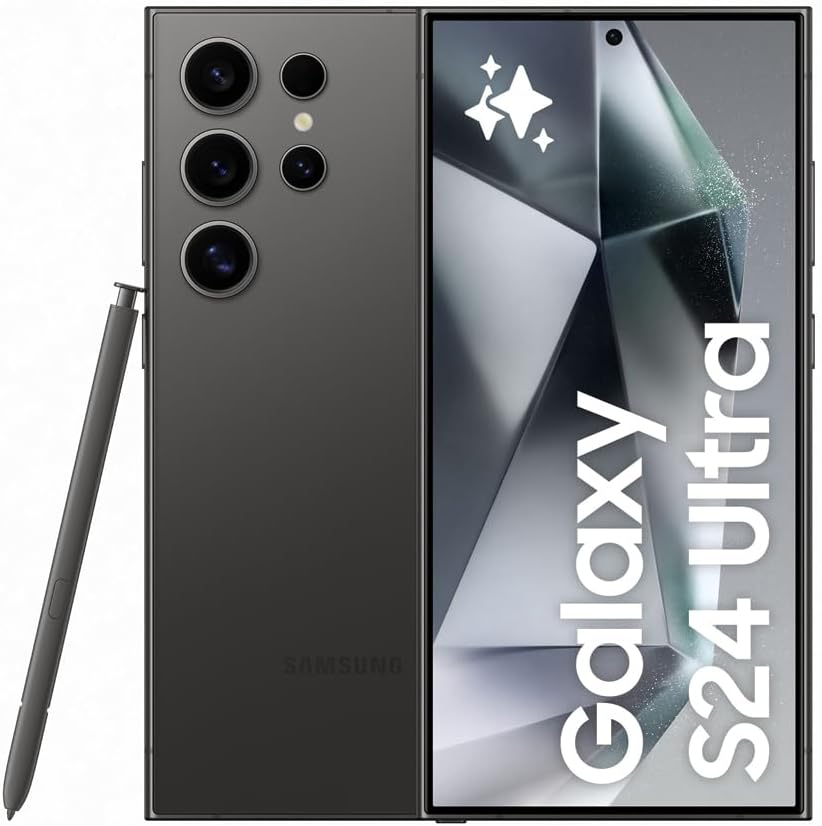
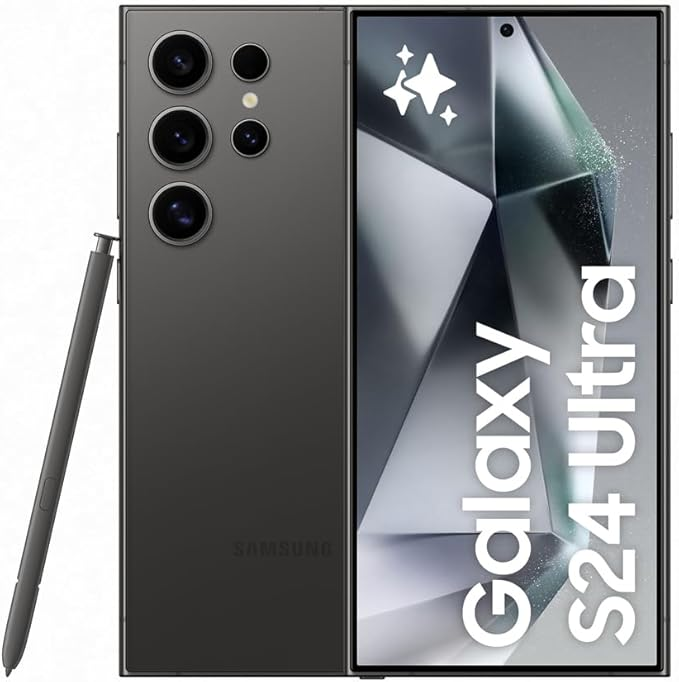
Fix: Alle lokalen Bildpfade bereinigt (._AC_SL... entfernt) + Samsung S24 Ultra Bild lokal

diff --git a/pages/sony-wh-1000xm5.html b/pages/sony-wh-1000xm5.html
@@ -13,7 +13,7 @@
   <meta property="og:description" content="Sony WH-1000XM5 im Test: Noise Cancelling, wie es sein soll">
   <meta property="og:url" content="https://mmofinds.de/pages/sony-wh-1000xm5.html">
   <meta property="og:site_name" content="MMOFinds">
-  <meta property="og:image" content="/assets/images/51SKmu2G9FL.jpg._AC_SL1500_.jpg">
+  <meta property="og:image" content="/assets/images/51SKmu2G9FL.jpg">
   <meta property="og:image:width" content="1200">
   <meta property="og:image:height" content="630">
   
@@ -577,7 +577,7 @@ body {
     
     <!-- Hero -->
     <div class="review-hero">
-      <img src="/assets/images/51SKmu2G9FL.jpg._AC_SL1500_.jpg" alt="Sony WH-1000XM5" class="review-hero-image" width="1200" height="600">
+      <img src="/assets/images/51SKmu2G9FL.jpg" alt="Sony WH-1000XM5" class="review-hero-image" width="1200" height="600">
       <div class="review-hero-content">
         <span class="review-category">Kopfhörer</span>
         <h1 class="review-headline">Der stille König der Kopfhörer</h1>
@@ -601,7 +601,7 @@ body {
     <section class="product-video-section">
       <h2 class="product-video-title">🎬 Sony WH-1000XM5 — Produkt-Video</h2>
       <div class="product-video-container">
-        <video controls preload="metadata" poster="/assets/images/51SKmu2G9FL.jpg._AC_SL1500_.jpg">
+        <video controls preload="metadata" poster="/assets/images/51SKmu2G9FL.jpg">
           <source src="/videos/sony_wh1000xm5_review.mp4" type="video/mp4">
           Ihr Browser unterstützt kein Video.
         </video>
@@ -698,7 +698,7 @@ body {
       <div class="products-grid">
               <div class="product-card">
         <div class="product-image">
-          <img src="/assets/images/51SKmu2G9FL.jpg._AC_SL1500_.jpg" alt="Sony WH-1000XM5 — Schwarz" width="600" height="600" loading="lazy">
+          <img src="/assets/images/51SKmu2G9FL.jpg" alt="Sony WH-1000XM5 — Schwarz" width="600" height="600" loading="lazy">
         </div>
         <div class="product-body">
           <h3 class="product-name">Sony WH-1000XM5 — Schwarz</h3>
@@ -710,7 +710,7 @@ body {
       </div>
       <div class="product-card">
         <div class="product-image">
-          <img src="/assets/images/61hgACWSwHL.jpg._AC_SL1500_.jpg" alt="Sony WH-1000XM5 — Silber" width="600" height="600" loading="lazy">
+          <img src="/assets/images/61hgACWSwHL.jpg" alt="Sony WH-1000XM5 — Silber" width="600" height="600" loading="lazy">
         </div>
         <div class="product-body">
           <h3 class="product-name">Sony WH-1000XM5 — Silber</h3>

diff --git a/index.html b/index.html
@@ -1161,7 +1161,7 @@ body {
     <a href="/pages/sony-wh-1000xm5.html" class="featured-card" rel="noopener">
       <div class="featured-image">
         <span class="featured-badge">⭐ Top Review</span>
-        <img src="/assets/images/51SKmu2G9FL.jpg._AC_SL1500_.jpg" alt="Sony WH-1000XM5" loading="lazy">
+        <img src="/assets/images/51SKmu2G9FL.jpg" alt="Sony WH-1000XM5" loading="lazy">
       </div>
       <div class="featured-content">
         <span class="featured-category">Kopfhörer</span>
@@ -1204,7 +1204,7 @@ body {
     </a>
     <a href="/pages/apple-airpods-pro-2.html" class="product-card" data-cat="earbuds" rel="noopener">
       <div class="product-card-image">
-        <img src="/assets/images/61SUj2aKoEL.jpg._AC_SL1500_.jpg" alt="Apple AirPods Pro 2" loading="lazy" width="400" height="400">
+        <img src="/assets/images/61SUj2aKoEL.jpg" alt="Apple AirPods Pro 2" loading="lazy" width="400" height="400">
       </div>
       <div class="product-card-body">
         <div class="product-card-category">Earbuds</div>
@@ -1238,7 +1238,7 @@ body {
     </a>
     <a href="/pages/soundcore-boom-2-outdoor.html" class="product-card" data-cat="bluetooth" rel="noopener">
       <div class="product-card-image">
-        <img src="/assets/images/71hacRj5-QL.jpg._AC_SL1500_.jpg" alt="soundcore Boom 2" loading="lazy" width="400" height="400">
+        <img src="/assets/images/71hacRj5-QL.jpg" alt="soundcore Boom 2" loading="lazy" width="400" height="400">
       </div>
       <div class="product-card-body">
         <div class="product-card-category">Bluetooth Lautsprecher</div>
@@ -1272,7 +1272,7 @@ body {
     </a>
     <a href="/pages/samsung-galaxy-watch-7.html" class="product-card" data-cat="smartwatch" rel="noopener">
       <div class="product-card-image">
-        <img src="/assets/images/51ZqhjQmtQL.jpg._AC_SL1500_.jpg" alt="Samsung Galaxy Watch 7" loading="lazy" width="400" height="400">
+        <img src="/assets/images/51ZqhjQmtQL.jpg" alt="Samsung Galaxy Watch 7" loading="lazy" width="400" height="400">
       </div>
       <div class="product-card-body">
         <div class="product-card-category">Smartwatch</div>

diff --git a/pages/apple-airpods-pro-2.html b/pages/apple-airpods-pro-2.html
@@ -13,7 +13,7 @@
   <meta property="og:description" content="AirPods Pro 2 im Test: So funktionieren In-Ears, die du nicht mehr ablegen willst">
   <meta property="og:url" content="https://mmofinds.de/pages/apple-airpods-pro-2.html">
   <meta property="og:site_name" content="MMOFinds">
-  <meta property="og:image" content="/assets/images/61SUj2aKoEL.jpg._AC_SL1500_.jpg">
+  <meta property="og:image" content="/assets/images/61SUj2aKoEL.jpg">
   <meta property="og:image:width" content="1200">
   <meta property="og:image:height" content="630">
   
@@ -539,7 +539,7 @@ body {
     
     <!-- Hero -->
     <div class="review-hero">
-      <img src="/assets/images/61SUj2aKoEL.jpg._AC_SL1500_.jpg" alt="Apple AirPods Pro 2" class="review-hero-image" width="1200" height="600">
+      <img src="/assets/images/61SUj2aKoEL.jpg" alt="Apple AirPods Pro 2" class="review-hero-image" width="1200" height="600">
       <div class="review-hero-content">
         <span class="review-category">Earbuds</span>
         <h1 class="review-headline">Klein. Kraftvoll. Magisch.</h1>
@@ -648,7 +648,7 @@ body {
       <div class="products-grid">
               <div class="product-card">
         <div class="product-image">
-          <img src="/assets/images/61SUj2aKoEL.jpg._AC_SL1500_.jpg" alt="Apple AirPods Pro 2 — Lightning" width="600" height="600" loading="lazy">
+          <img src="/assets/images/61SUj2aKoEL.jpg" alt="Apple AirPods Pro 2 — Lightning" width="600" height="600" loading="lazy">
         </div>
         <div class="product-body">
           <h3 class="product-name">Apple AirPods Pro 2 — Lightning</h3>
@@ -660,7 +660,7 @@ body {
       </div>
       <div class="product-card">
         <div class="product-image">
-          <img src="/assets/images/61f1YfTkTDL.jpg._AC_SL1500_.jpg" alt="Apple AirPods Pro 2 — USB-C" width="600" height="600" loading="lazy">
+          <img src="/assets/images/61f1YfTkTDL.jpg" alt="Apple AirPods Pro 2 — USB-C" width="600" height="600" loading="lazy">
         </div>
         <div class="product-body">
           <h3 class="product-name">Apple AirPods Pro 2 — USB-C</h3>

diff --git a/pages/soundcore-boom-2-outdoor.html b/pages/soundcore-boom-2-outdoor.html
@@ -649,7 +649,7 @@
    601|        
 <div class="product-card">
   <div class="product-image">
-    <img src="/assets/images/61Eaj593GtL.jpg._AC_SL1500_.jpg" alt="JBL Flip 6 Outdoor Speaker" loading="lazy">
+    <img src="/assets/images/61Eaj593GtL.jpg" alt="JBL Flip 6 Outdoor Speaker" loading="lazy">
   </div>
   <div class="product-body">
     <h3 class="product-name">JBL Flip 6</h3>
@@ -659,7 +659,7 @@
 </div>
 <div class="product-card">
   <div class="product-image">
-    <img src="/assets/images/7192Qca-fUL.jpg._AC_SL1500_.jpg" alt="Bose SoundLink Flex Bluetooth Speaker" loading="lazy">
+    <img src="/assets/images/7192Qca-fUL.jpg" alt="Bose SoundLink Flex Bluetooth Speaker" loading="lazy">
   </div>
   <div class="product-body">
     <h3 class="product-name">Bose SoundLink Flex</h3>

diff --git a/products/apple-airpods-pro-2.html b/products/apple-airpods-pro-2.html
@@ -11,7 +11,7 @@
     <meta property="og:description" content="Adaptives Noise-Cancelling, Transparenzmodus, USB-C.">
     <meta property="og:type" content="article">
     <meta property="og:url" content="https://mmofinds.de/products/apple-airpods-pro-2.html">
-    <meta property="og:image" content="/assets/images/61SUj2aKoEL.jpg._AC_SL1500_.jpg">
+    <meta property="og:image" content="/assets/images/61SUj2aKoEL.jpg">
 </head>
 <body>
     <header class="header">
@@ -33,7 +33,7 @@
 
     <div class="product-content">
         <div class="product-image-section">
-            <img src="/assets/images/61SUj2aKoEL.jpg._AC_SL1500_.jpg" alt="Apple AirPods Pro 2 USB-C">
+            <img src="/assets/images/61SUj2aKoEL.jpg" alt="Apple AirPods Pro 2 USB-C">
         </div>
 
         <h3 class="section-title-product">Warum diese AirPods?</h3>

diff --git a/products/dyson-v15-detect.html b/products/dyson-v15-detect.html
@@ -11,7 +11,7 @@
     <meta property="og:description" content="Laser-Detection, 60min Laufzeit, LCD-Display.">
     <meta property="og:type" content="article">
     <meta property="og:url" content="https://mmofinds.de/products/dyson-v15-detect.html">
-    <meta property="og:image" content="/assets/images/51XFBTan1gL.jpg._AC_SL1500_.jpg">
+    <meta property="og:image" content="/assets/images/51XFBTan1gL.jpg">
 </head>
 <body>
     <header class="header">
@@ -33,7 +33,7 @@
 
     <div class="product-content">
         <div class="product-image-section">
-            <img src="/assets/images/51XFBTan1gL.jpg._AC_SL1500_.jpg" alt="Dyson V15 Detect">
+            <img src="/assets/images/51XFBTan1gL.jpg" alt="Dyson V15 Detect">
         </div>
 
         <h3 class="section-title-product">Warum dieser Staubsauger?</h3>

diff --git a/products/logitech-mx-master-3s.html b/products/logitech-mx-master-3s.html
@@ -11,7 +11,7 @@
     <meta property="og:description" content="8K DPI, leise Klicks, MagSpeed-Rad, USB-C.">
     <meta property="og:type" content="article">
     <meta property="og:url" content="https://mmofinds.de/products/logitech-mx-master-3s.html">
-    <meta property="og:image" content="/assets/images/61ni3t1ryQL.jpg._AC_SL1500_.jpg">
+    <meta property="og:image" content="/assets/images/61ni3t1ryQL.jpg">
 </head>
 <body>
     <header class="header">
@@ -33,7 +33,7 @@
 
     <div class="product-content">
         <div class="product-image-section">
-            <img src="/assets/images/61ni3t1ryQL.jpg._AC_SL1500_.jpg" alt="Logitech MX Master 3S">
+            <img src="/assets/images/61ni3t1ryQL.jpg" alt="Logitech MX Master 3S">
         </div>
 
         <h3 class="section-title-product">Warum diese Maus?</h3>

diff --git a/products/samsung-galaxy-s25-ultra.html b/products/samsung-galaxy-s25-ultra.html
@@ -11,7 +11,7 @@
     <meta property="og:description" content="200MP Kamera, Snapdragon 8 Elite, S Pen.">
     <meta property="og:type" content="article">
     <meta property="og:url" content="https://mmofinds.de/products/samsung-galaxy-s25-ultra.html">
-    <meta property="og:image" content="/assets/images/61q4u3Z+kkL.jpg._AC_SL1500_.jpg">
+    <meta property="og:image" content="/assets/images/61q4u3Z+kkL.jpg">
 </head>
 <body>
     <header class="header">
@@ -33,7 +33,7 @@
 
     <div class="product-content">
         <div class="product-image-section">
-            <img src="/assets/images/61q4u3Z+kkL.jpg._AC_SL1500_.jpg" alt="Samsung Galaxy S25 Ultra">
+            <img src="/assets/images/61q4u3Z+kkL.jpg" alt="Samsung Galaxy S25 Ultra">
         </div>
 
         <h3 class="section-title-product">Warum dieses Handy?</h3>

diff --git a/products/sony-wh1000xm5.html b/products/sony-wh1000xm5.html
@@ -11,7 +11,7 @@
     <meta property="og:description" content="Branchenführendes Noise-Cancelling, 30h Akku, kristallklarer Sound.">
     <meta property="og:type" content="article">
     <meta property="og:url" content="https://mmofinds.de/products/sony-wh1000xm5.html">
-    <meta property="og:image" content="/assets/images/51SKmu2G9FL.jpg._AC_SL1200_.jpg">
+    <meta property="og:image" content="/assets/images/51SKmu2G9FL.jpg">
 </head>
 <body>
     <header class="header">
@@ -33,7 +33,7 @@
 
     <div class="product-content">
         <div class="product-image-section">
-            <img src="/assets/images/51SKmu2G9FL.jpg._AC_SL1200_.jpg" alt="Sony WH-1000XM5 Kopfhörer">
+            <img src="/assets/images/51SKmu2G9FL.jpg" alt="Sony WH-1000XM5 Kopfhörer">
         </div>
 
         <h3 class="section-title-product">Warum dieser Kopfhörer?</h3>

diff --git a/pages/bose-quietcomfort-ultra.html b/pages/bose-quietcomfort-ultra.html
@@ -660,7 +660,7 @@ body {
       </div>
       <div class="product-card">
         <div class="product-image">
-          <img src="/assets/images/51yWZxN3vRL.jpg._AC_SL1500_.jpg" alt="Bose QuietComfort Ultra — White Smoke" width="600" height="600" loading="lazy">
+          <img src="/assets/images/51yWZxN3vRL.jpg" alt="Bose QuietComfort Ultra — White Smoke" width="600" height="600" loading="lazy">
         </div>
         <div class="product-body">
           <h3 class="product-name">Bose QuietComfort Ultra — White Smoke</h3>

diff --git a/pages/jbl-charge-5.html b/pages/jbl-charge-5.html
@@ -660,7 +660,7 @@ body {
       </div>
       <div class="product-card">
         <div class="product-image">
-          <img src="/assets/images/61qMO3TS2RL.jpg._AC_SL1500_.jpg" alt="JBL Charge 5 — Blau" width="600" height="600" loading="lazy">
+          <img src="/assets/images/61qMO3TS2RL.jpg" alt="JBL Charge 5 — Blau" width="600" height="600" loading="lazy">
         </div>
         <div class="product-body">
           <h3 class="product-name">JBL Charge 5 — Blau</h3>

diff --git a/pages/samsung-galaxy-s24-ultra.html b/pages/samsung-galaxy-s24-ultra.html
@@ -660,7 +660,7 @@ body {
       </div>
       <div class="product-card">
         <div class="product-image">
-          <img src="/assets/images/51hgRmbmBaL.jpg._AC_SL1500_.jpg" alt="Samsung Galaxy S24 Ultra — Titan Black" width="600" height="600" loading="lazy">
+          <img src="/assets/images/51hgRmbmBaL.jpg" alt="Samsung Galaxy S24 Ultra — Titan Black" width="600" height="600" loading="lazy">
         </div>
         <div class="product-body">
           <h3 class="product-name">Samsung Galaxy S24 Ultra — Titan Black</h3>